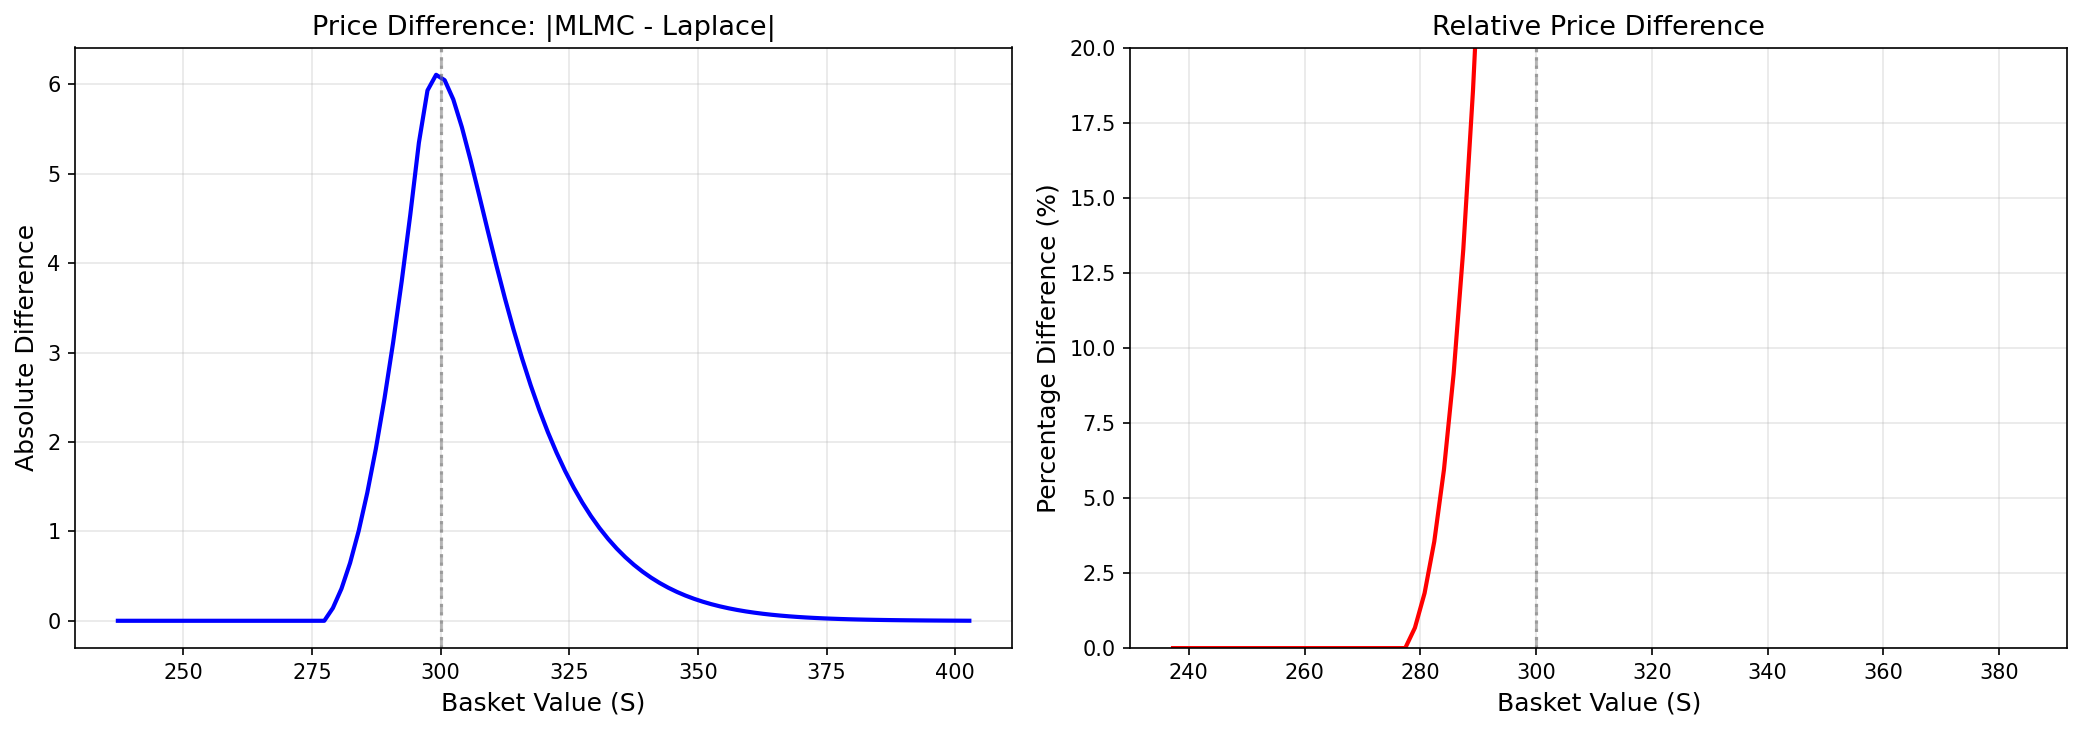
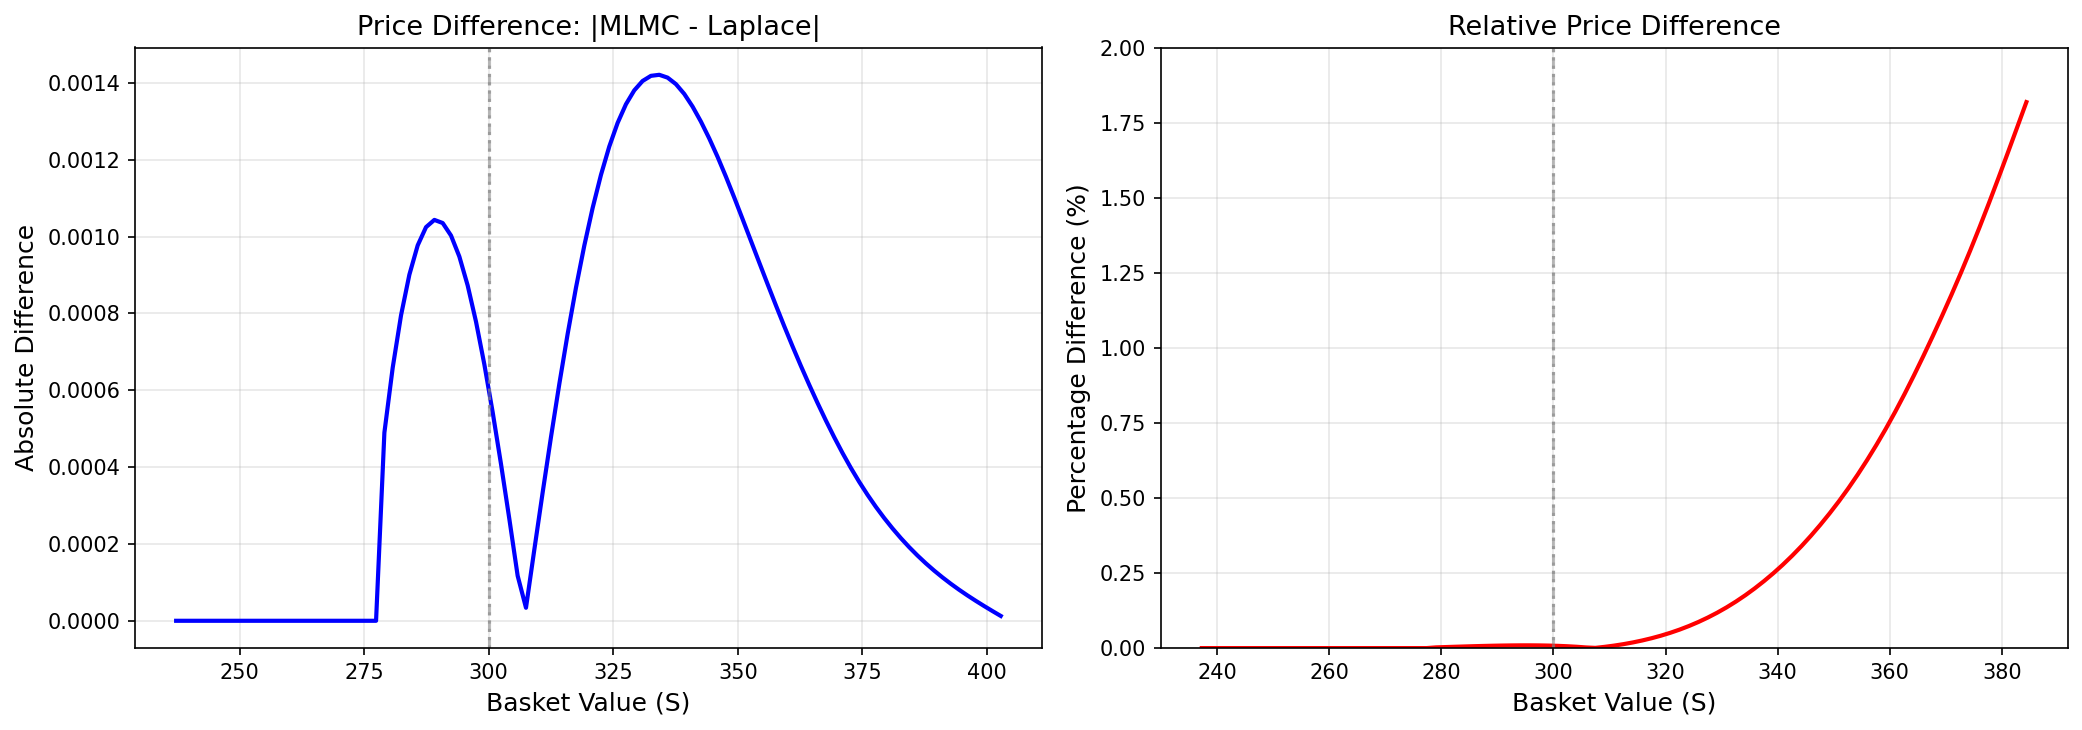
Updated Results to MUCH BETTER ALHAMDUILLAH

diff --git a/Comparison_Between_Methods/results/tables/exp5_parameter_sensitivity.md b/Comparison_Between_Methods/results/tables/exp5_parameter_sensitivity.md
@@ -4,63 +4,63 @@
 
 | Value | L2 Error | L∞ Error | MLMC Time (s) | Laplace Time (s) |
 |-------|----------|----------|---------------|------------------|
-| 0.05 | 1.3119 | 2.1973 | 0.19 | 0.40 |
-| 0.10 | 1.2482 | 2.0651 | 0.19 | 0.38 |
-| 0.15 | 1.2053 | 1.9318 | 0.19 | 0.37 |
-| 0.20 | 1.1991 | 1.8872 | 0.19 | 0.38 |
-| 0.25 | 1.1997 | 1.8886 | 0.19 | 0.38 |
-| 0.30 | 1.2001 | 1.8932 | 0.20 | 0.39 |
-| 0.40 | 1.2010 | 1.8967 | 0.19 | 0.37 |
-| 0.50 | 1.2018 | 1.9151 | 0.20 | 0.38 |
+| 0.05 | 0.2662 | 0.6440 | 0.19 | 0.38 |
+| 0.10 | 0.1265 | 0.3817 | 0.19 | 0.39 |
+| 0.15 | 0.0230 | 0.1010 | 0.19 | 0.37 |
+| 0.20 | 0.0025 | 0.0091 | 0.19 | 0.36 |
+| 0.25 | 0.0014 | 0.0050 | 0.20 | 0.37 |
+| 0.30 | 0.0014 | 0.0056 | 0.19 | 0.36 |
+| 0.40 | 0.0036 | 0.0092 | 0.20 | 0.36 |
+| 0.50 | 0.0068 | 0.0174 | 0.19 | 0.35 |
 
 ## Correlation ($\rho$)
 
 | Value | L2 Error | L∞ Error | MLMC Time (s) | Laplace Time (s) |
 |-------|----------|----------|---------------|------------------|
-| -0.50 | 1.3109 | 2.8384 | 0.19 | 0.51 |
-| -0.25 | 1.2316 | 2.2578 | 0.19 | 0.45 |
-| 0.00 | 1.2070 | 2.0269 | 0.19 | 0.49 |
-| 0.25 | 1.1999 | 1.9312 | 0.20 | 0.41 |
-| 0.50 | 1.1995 | 1.9095 | 0.19 | 0.41 |
-| 0.70 | 1.1994 | 1.9011 | 0.19 | 0.40 |
-| 0.80 | 1.1993 | 1.8982 | 0.19 | 0.40 |
-| 0.90 | 1.1993 | 1.8963 | 0.18 | 0.40 |
+| -0.50 | 0.2416 | 0.8320 | 0.19 | 0.52 |
+| -0.25 | 0.0847 | 0.3350 | 0.19 | 0.49 |
+| 0.00 | 0.0251 | 0.1169 | 0.19 | 0.43 |
+| 0.25 | 0.0018 | 0.0080 | 0.19 | 0.42 |
+| 0.50 | 0.0018 | 0.0084 | 0.19 | 0.41 |
+| 0.70 | 0.0018 | 0.0071 | 0.20 | 0.42 |
+| 0.80 | 0.0019 | 0.0073 | 0.19 | 0.42 |
+| 0.90 | 0.0019 | 0.0074 | 0.19 | 0.41 |
 
 ## Interest Rate (r)
 
 | Value | L2 Error | L∞ Error | MLMC Time (s) | Laplace Time (s) |
 |-------|----------|----------|---------------|------------------|
-| 0.00 | 1.1998 | 1.9091 | 0.18 | 0.40 |
-| 0.02 | 1.1997 | 1.9089 | 0.19 | 0.42 |
-| 0.05 | 1.1995 | 1.9095 | 0.20 | 0.41 |
-| 0.08 | 1.1994 | 1.9095 | 0.20 | 0.46 |
-| 0.10 | 1.1993 | 1.9110 | 0.21 | 0.43 |
-| 0.12 | 1.1992 | 1.9106 | 0.20 | 0.42 |
-| 0.15 | 1.1990 | 1.9135 | 0.19 | 0.40 |
+| 0.00 | 0.0015 | 0.0069 | 0.19 | 0.44 |
+| 0.02 | 0.0016 | 0.0063 | 0.19 | 0.39 |
+| 0.05 | 0.0018 | 0.0084 | 0.19 | 0.40 |
+| 0.08 | 0.0021 | 0.0074 | 0.19 | 0.42 |
+| 0.10 | 0.0023 | 0.0081 | 0.18 | 0.39 |
+| 0.12 | 0.0026 | 0.0087 | 0.19 | 0.42 |
+| 0.15 | 0.0030 | 0.0076 | 0.19 | 0.40 |
 
 ## Maturity (T)
 
 | Value | L2 Error | L∞ Error | MLMC Time (s) | Laplace Time (s) |
 |-------|----------|----------|---------------|------------------|
-| 0.10 | 1.4564 | 2.6623 | 0.04 | 0.41 |
-| 0.25 | 1.2342 | 2.0520 | 0.10 | 0.40 |
-| 0.50 | 1.1995 | 1.9095 | 0.19 | 0.41 |
-| 0.75 | 1.2001 | 1.9138 | 0.27 | 0.40 |
-| 1.00 | 1.2000 | 1.9142 | 0.36 | 0.39 |
-| 1.50 | 1.2006 | 1.9168 | 0.55 | 0.39 |
-| 2.00 | 1.2012 | 1.9220 | 0.73 | 0.38 |
+| 0.10 | 0.5844 | 1.7351 | 0.04 | 0.40 |
+| 0.25 | 0.0889 | 0.3076 | 0.10 | 0.40 |
+| 0.50 | 0.0018 | 0.0084 | 0.19 | 0.41 |
+| 0.75 | 0.0007 | 0.0034 | 0.28 | 0.42 |
+| 1.00 | 0.0010 | 0.0052 | 0.37 | 0.39 |
+| 1.50 | 0.0014 | 0.0049 | 0.56 | 0.39 |
+| 2.00 | 0.0028 | 0.0132 | 0.71 | 0.38 |
 
 ## Moneyness (K/S₀)
 
 | Value | L2 Error | L∞ Error | MLMC Time (s) | Laplace Time (s) |
 |-------|----------|----------|---------------|------------------|
-| 0.80 | 1.1995 | 1.9095 | 0.19 | 0.41 |
-| 0.90 | 1.1995 | 1.9095 | 0.19 | 0.42 |
-| 0.95 | 1.1995 | 1.9095 | 0.19 | 0.42 |
-| 1.00 | 1.1995 | 1.9095 | 0.19 | 0.42 |
-| 1.05 | 1.1995 | 1.9095 | 0.19 | 0.44 |
-| 1.10 | 1.1995 | 1.9095 | 0.20 | 0.42 |
-| 1.20 | 1.1995 | 1.9095 | 0.19 | 0.41 |
+| 0.80 | 0.0018 | 0.0084 | 0.19 | 0.41 |
+| 0.90 | 0.0018 | 0.0084 | 0.19 | 0.39 |
+| 0.95 | 0.0018 | 0.0084 | 0.18 | 0.39 |
+| 1.00 | 0.0018 | 0.0084 | 0.19 | 0.42 |
+| 1.05 | 0.0018 | 0.0084 | 0.19 | 0.40 |
+| 1.10 | 0.0018 | 0.0084 | 0.19 | 0.41 |
+| 1.20 | 0.0018 | 0.0084 | 0.19 | 0.42 |
 
 ## Key Observations
 

diff --git a/Comparison_Between_Methods/results/tables/exp2_convergence_stats.md b/Comparison_Between_Methods/results/tables/exp2_convergence_stats.md
@@ -5,24 +5,24 @@
 | Statistic | Value |
 |-----------|-------|
 | Number of runs | 20 |
-| Mean L2 error (individual) | 0.888992 |
-| Std L2 error | 0.000244 |
-| Final running avg L2 | 0.888992 |
+| Mean L2 error (individual) | 0.003520 |
+| Std L2 error | 0.001915 |
+| Final running avg L2 | 0.001809 |
 | Mean time per run | 0.22 s |
-| Total computation time | 4.4 s |
+| Total computation time | 4.3 s |
 
 ## Running Average L2 Errors
 
 | n | L2 Error |
 |---|----------|
-| 1 | 0.889358 |
-| 2 | 0.888972 |
-| 3 | 0.889064 |
-| 4 | 0.889078 |
-| 5 | 0.889028 |
-| 6 | 0.889098 |
-| 11 | 0.888995 |
-| 16 | 0.888990 |
-| 18 | 0.888993 |
-| 19 | 0.888999 |
-| 20 | 0.888992 |
+| 1 | 0.005720 |
+| 2 | 0.001882 |
+| 3 | 0.002328 |
+| 4 | 0.002426 |
+| 5 | 0.001735 |
+| 6 | 0.002555 |
+| 11 | 0.001823 |
+| 16 | 0.001722 |
+| 18 | 0.001737 |
+| 19 | 0.001823 |
+| 20 | 0.001809 |

diff --git a/Comparison_Between_Methods/results/tables/exp4_option_prices.md b/Comparison_Between_Methods/results/tables/exp4_option_prices.md
@@ -15,13 +15,13 @@
 | 237.3 | 62.7302 | 62.7302 | 0.0000 | 0.00 |
 | 240.6 | 59.3871 | 59.3871 | 0.0000 | 0.00 |
 | 270.7 | 29.2995 | 29.2995 | 0.0000 | 0.00 |
-| 300.8 | 1.2571 | 7.3043 | 6.0472 | 82.79 |
-| 329.2 | 0.0001 | 1.1720 | 1.1720 | 99.99 |
-| 359.3 | 0.0000 | 0.1050 | 0.1050 | 100.00 |
-| 389.4 | 0.0000 | 0.0063 | 0.0063 | N/A |
+| 300.8 | 7.3048 | 7.3043 | 0.0005 | 0.01 |
+| 329.2 | 1.1707 | 1.1720 | 0.0014 | 0.12 |
+| 359.3 | 0.1042 | 0.1050 | 0.0008 | 0.73 |
+| 389.4 | 0.0062 | 0.0063 | 0.0001 | N/A |
 
 ## Statistics
 
-- Mean absolute difference: 1.0528
-- Max absolute difference: 6.1076
-- Mean percentage difference: 60.66%
+- Mean absolute difference: 0.0005
+- Max absolute difference: 0.0014
+- Mean percentage difference: 0.30%

diff --git a/Comparison_Between_Methods/results/tables/exp3_dimension_scaling.md b/Comparison_Between_Methods/results/tables/exp3_dimension_scaling.md
@@ -4,10 +4,10 @@
 
 | d | MLMC Time (s) | Laplace Time (s) | L2 Error | L∞ Error |
 |---|---------------|------------------|----------|----------|
-| 2 | 0.19 | 0.64 | 1.1996 | 1.9142 |
-| 3 | 0.22 | 1.36 | 1.6015 | 2.5515 |
-| 5 | 0.27 | 3.17 | 1.8460 | 2.6184 |
-| 10 | 0.35 | 10.20 | 1.9607 | 2.5699 |
+| 2 | 0.19 | 0.65 | 0.0018 | 0.0084 |
+| 3 | 0.21 | 1.36 | 0.0057 | 0.0266 |
+| 5 | 0.25 | 3.00 | 0.0028 | 0.0139 |
+| 10 | 0.36 | 9.90 | 0.0103 | 0.0501 |
 
 ## Key Observations
 

diff --git a/Comparison_Between_Methods/results/tables/exp1_metrics.md b/Comparison_Between_Methods/results/tables/exp1_metrics.md
@@ -4,11 +4,11 @@
 
 | Metric | Value |
 |--------|-------|
-| L2 relative error | 1.601521 |
-| L∞ error | 2485.0855 |
-| Mean absolute difference | 1463.3874 |
-| Mean relative difference | 160.10% |
-| Bias (MLMC - Laplace) | -1463.3874 |
+| L2 relative error | 0.005732 |
+| L∞ error | 46.5437 |
+| Mean absolute difference | 5.8008 |
+| Mean relative difference | 0.29% |
+| Bias (MLMC - Laplace) | -5.6705 |
 | Pearson correlation | 1.0000 |
 | Valid grid fraction | 100.0% |
 
